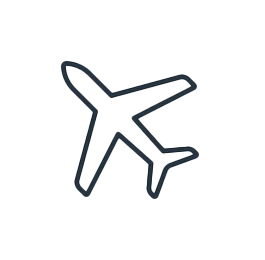
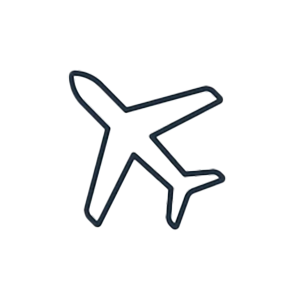
1.1

diff --git a/AirplaneGUI.java b/AirplaneGUI.java
@@ -17,11 +17,13 @@ class AirplanePart {
     }
 
     public ImageIcon getImage() {
-        return new ImageIcon(imagePath);
+        ImageIcon icon = new ImageIcon(imagePath);
+        Image img = icon.getImage().getScaledInstance(250, 250, Image.SCALE_SMOOTH);
+        return new ImageIcon(img);
     }
 }
 
-// Child Class
+// Child Classes
 class Wings extends AirplanePart {
     public Wings() {
         super(
@@ -44,36 +46,47 @@ class Tail extends AirplanePart {
 }
 
 // GUI Class
-public class Main extends JFrame {
-    public Main() {
+public class AirplaneGUI extends JFrame {
+    public AirplaneGUI() {
         setTitle("GUI Inheritance Project - Airplane");
-        setSize(400, 500);
+        setSize(500, 700);
         setDefaultCloseOperation(JFrame.EXIT_ON_CLOSE);
-        setLayout(new GridLayout(5, 1));
+        setLayout(new BorderLayout());
+
+        // Panel to hold airplane parts
+        JPanel airplanePanel = new JPanel();
+        airplanePanel.setLayout(new BoxLayout(airplanePanel, BoxLayout.Y_AXIS));
+        airplanePanel.setBackground(Color.WHITE);
 
         // Create parts
         Wings wings = new Wings();
         Body body = new Body();
         Tail tail = new Tail();
 
-        // Add images
-        add(new JLabel(wings.getImage()));
-        add(new JLabel(body.getImage()));
-        add(new JLabel(tail.getImage()));
+        // Add images to panel
+        airplanePanel.add(new JLabel(wings.getImage(), SwingConstants.CENTER));
+        airplanePanel.add(new JLabel(body.getImage(), SwingConstants.CENTER));
+        airplanePanel.add(new JLabel(tail.getImage(), SwingConstants.CENTER));
 
-        // Display description
+        // Description Panel
+        JPanel descriptionPanel = new JPanel();
+        descriptionPanel.setLayout(new GridLayout(1, 1));
         JLabel descriptionLabel = new JLabel(
-            "<html>" + wings.getDescription() + "<br>" +
+            "<html><center>" + wings.getDescription() + "<br>" +
             body.getDescription() + "<br>" +
-            tail.getDescription() + "<br>" +
+            tail.getDescription() + "</center></html>",
             SwingConstants.CENTER
         );
-        add(descriptionLabel);
+        descriptionPanel.add(descriptionLabel);
+
+        // Add panels to frame
+        add(airplanePanel, BorderLayout.CENTER);
+        add(descriptionPanel, BorderLayout.SOUTH);
 
         setVisible(true);
     }
 
     public static void main(String[] args) {
-        new Main();
+        new AirplaneGUI();
     }
 }
